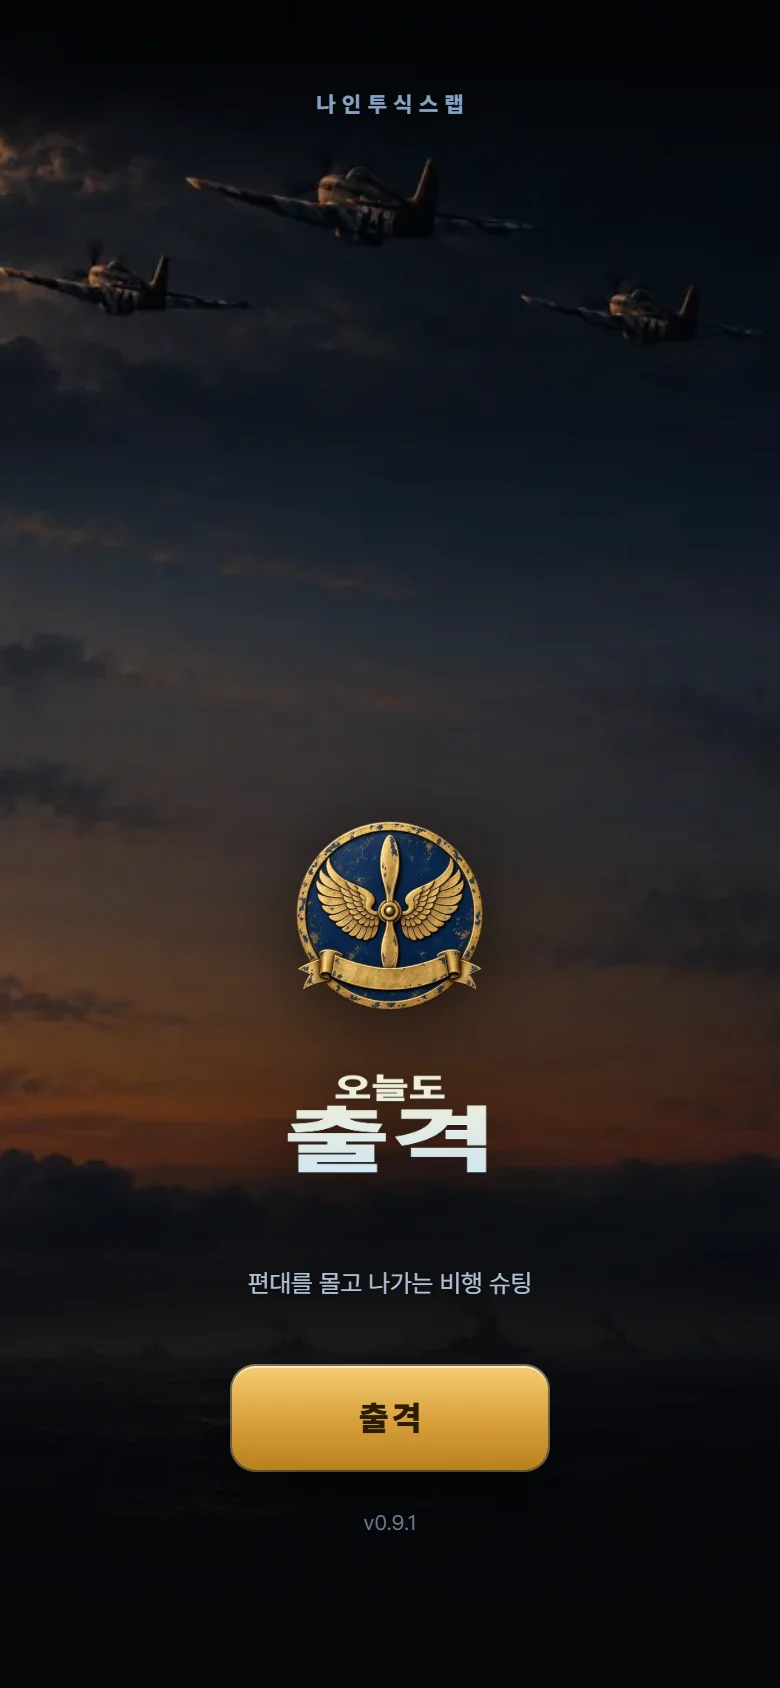
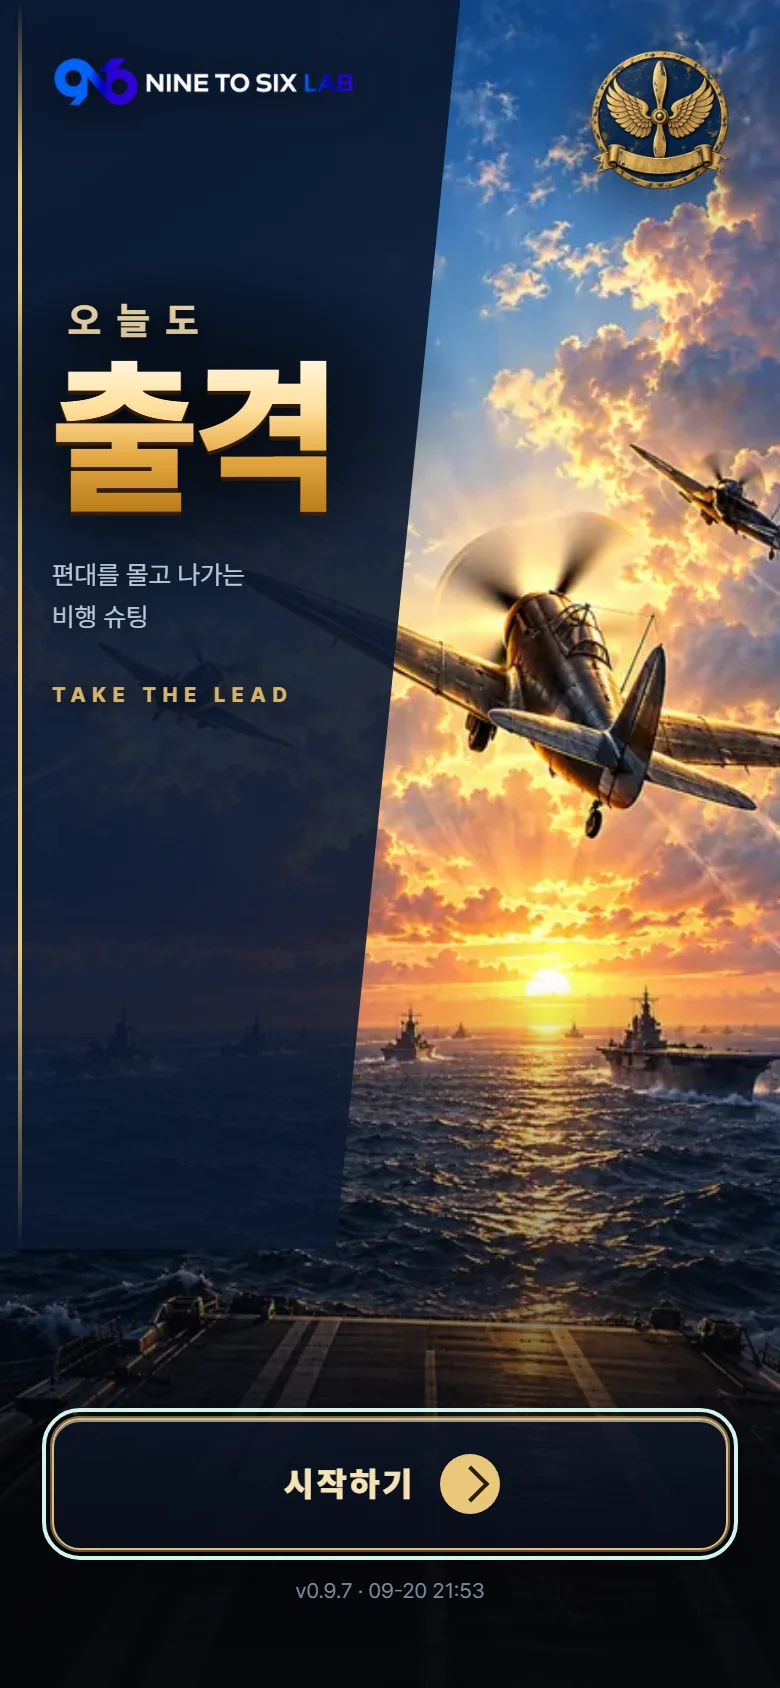
홈페이지: 오늘도 출격 최신 화면으로 교체

diff --git a/apps/shooter.html b/apps/shooter.html
@@ -50,7 +50,7 @@
       </ul>
     </div>
     <div class="phone rise">
-      <img src="../img/games/shooter.webp" width="780" height="1688" alt="오늘도 출격 실제 시작 화면. 비행 편대와 부대 문장, 출격 버튼." decoding="async">
+      <img src="../img/games/shooter.webp?v=20260920b" width="780" height="1688" alt="오늘도 출격 실제 시작 화면. 비행 편대와 부대 문장, 출격 버튼." decoding="async">
     </div>
   </div>
 </section>
@@ -63,8 +63,8 @@
       <h2 class="rise">앱 안은 이렇게 생겼습니다</h2>
     </div>
     <ul class="strip">
-      <li class="rise"><img src="../img/shots/shooter-play.webp" width="780" height="1688" alt="오늘도 출격 실제 전투 화면. 바다 위 기체와 적탄, 자동 사격." loading="lazy" decoding="async"></li>
-      <li class="rise"><img src="../img/shots/shooter-squad.webp" width="780" height="1688" alt="오늘도 출격 실제 편대 준비 화면. 기체 편성과 출격 버튼." loading="lazy" decoding="async"></li>
+      <li class="rise"><img src="../img/shots/shooter-play.webp?v=20260920b" width="780" height="1688" alt="오늘도 출격 실제 전투 화면. 바다 위 기체와 적탄, 자동 사격." loading="lazy" decoding="async"></li>
+      <li class="rise"><img src="../img/shots/shooter-squad.webp?v=20260920b" width="780" height="1688" alt="오늘도 출격 실제 편대 준비 화면. 기체 편성과 출격 버튼." loading="lazy" decoding="async"></li>
     </ul>
     <p class="strip-hint rise">옆으로 넘기세요</p>
   </div>

diff --git a/index.html b/index.html
@@ -72,7 +72,7 @@
     <ul class="service-grid">
       <li class="rise">
         <article class="service-card" style="--tint:var(--shooter); --glow:var(--shooter-glow)">
-          <a class="service-art art-shooter" href="apps/shooter.html" aria-label="오늘도 출격 소개 보기"><img class="service-screen" src="img/games/shooter.webp" width="780" height="1688" alt="오늘도 출격의 실제 시작 화면과 비행 편대" loading="lazy" decoding="async"></a>
+          <a class="service-art art-shooter" href="apps/shooter.html" aria-label="오늘도 출격 소개 보기"><img class="service-screen" src="img/games/shooter.webp?v=20260920b" width="780" height="1688" alt="오늘도 출격 v0.9.7의 실제 시작 화면" loading="lazy" decoding="async"></a>
           <div class="service-copy">
             <p class="service-label"><span>편대 슈팅</span><span class="service-state"><i></i>원스토어 서비스 중</span></p>
             <h3><a href="apps/shooter.html">오늘도 출격</a></h3>

diff --git a/tools/build_pages.py b/tools/build_pages.py
@@ -218,6 +218,7 @@ APPS = {
     h1='피하고, 맞히고.<br>오늘도 출격.',
     desc='기체를 움직여 적의 탄을 피하고, 자동 사격으로 전선을 돌파합니다. 보유한 기체를 골라 나만의 편대를 꾸려보세요.',
     hero_img='games/shooter.webp',
+    asset_v='20260920b',
     hero_alt='오늘도 출격 실제 시작 화면. 비행 편대와 부대 문장, 출격 버튼.',
     hero_width=780,
     hero_height=1688,
@@ -265,11 +266,12 @@ def page(a):
   tint = 'var(--%s)' % a['tint']
   how = '\n'.join('      <li>%s</li>' % h for h in a['how'])
 
+  asset_query = ('?v=' + a['asset_v']) if a.get('asset_v') else ''
   shots = ''
   if a['shots']:
     items = '\n'.join(
-      '      <li class="rise"><img src="../img/shots/%s.webp" width="%s" height="%s" alt="%s" loading="lazy" decoding="async"></li>'
-      % (f, a.get("shot_width", 636), a.get("shot_height", 1048), alt) for f, alt in a['shots'])
+      '      <li class="rise"><img src="../img/shots/%s.webp%s" width="%s" height="%s" alt="%s" loading="lazy" decoding="async"></li>'
+      % (f, asset_query, a.get("shot_width", 636), a.get("shot_height", 1048), alt) for f, alt in a['shots'])
     shots = '''
 <!-- 화면 둘러보기. 실제 앱 화면 — 옆으로 넘긴다 -->
 <section class="sec shots" style="--tint:%s">
@@ -446,7 +448,7 @@ def page(a):
       </ul>
     </div>
     <div class="phone rise">
-      <img src="../img/%(hero_img)s" width="%(hero_width)s" height="%(hero_height)s" alt="%(hero_alt)s" decoding="async">
+      <img src="../img/%(hero_img)s%(asset_query)s" width="%(hero_width)s" height="%(hero_height)s" alt="%(hero_alt)s" decoding="async">
     </div>
   </div>
 </section>
@@ -507,7 +509,7 @@ def page(a):
 <script src="../site.js"></script>%(appjs)s
 </body>
 </html>
-''' % dict(a, hero_width=a.get("hero_width", 1170), hero_height=a.get("hero_height", 2532), tintvar=tint, how=how, shots=shots, feats=feats, mid=mid, steps=steps, notes=notes, others=others, appjs=appjs, action=action, launch=launch)
+''' % dict(a, hero_width=a.get("hero_width", 1170), hero_height=a.get("hero_height", 2532), asset_query=asset_query, tintvar=tint, how=how, shots=shots, feats=feats, mid=mid, steps=steps, notes=notes, others=others, appjs=appjs, action=action, launch=launch)
 
 
 def main():

diff --git a/wordpress/ntsl-site/ntsl-site.php b/wordpress/ntsl-site/ntsl-site.php
@@ -2,7 +2,7 @@
 /**
  * Plugin Name: 나인투식스랩 사이트
  * Description: 깃 저장소(dev/ninetosix-site)의 정적 홈페이지를 워드프레스에서 그대로 서빙하고, 블로그와 일반 페이지에도 같은 네비게이션·푸터·색을 씌웁니다. 카페24 매니지드 워드프레스는 FTP·파일매니저가 없어 테마 파일을 올릴 수 없으므로 플러그인 방식을 씁니다.
- * Version: 1.3.15
+ * Version: 1.3.16
  * Requires at least: 6.0
  * Requires PHP: 7.4
  * License: GPL-2.0-or-later
@@ -14,7 +14,7 @@ if ( ! defined( 'ABSPATH' ) ) {
 
 define( 'NTSL_SITE_DIR', plugin_dir_path( __FILE__ ) );
 define( 'NTSL_SITE_URL', plugin_dir_url( __FILE__ ) );
-define( 'NTSL_SITE_VER', '1.3.15' );
+define( 'NTSL_SITE_VER', '1.3.16' );
 
 // 2026-09-13 서비스 종료: 이전 버전의 지분공시 예약 작업이 있으면 해제한다.
 add_action( 'admin_init', function () {
